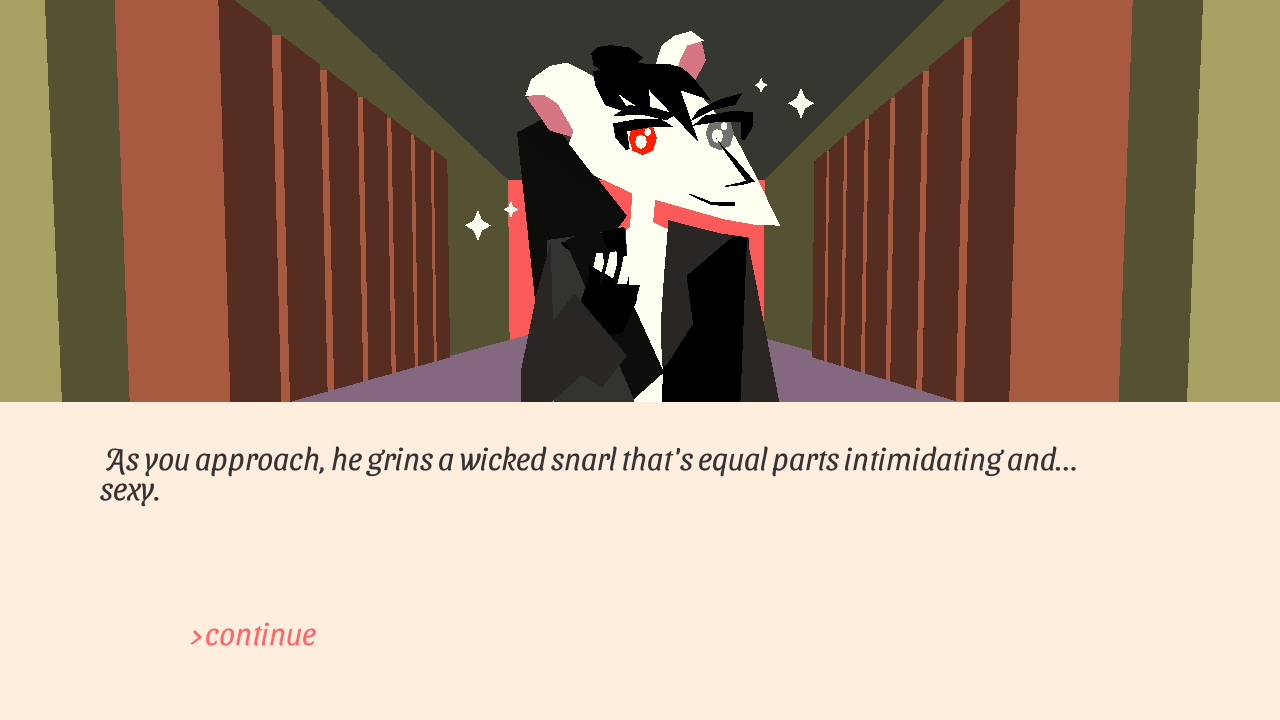
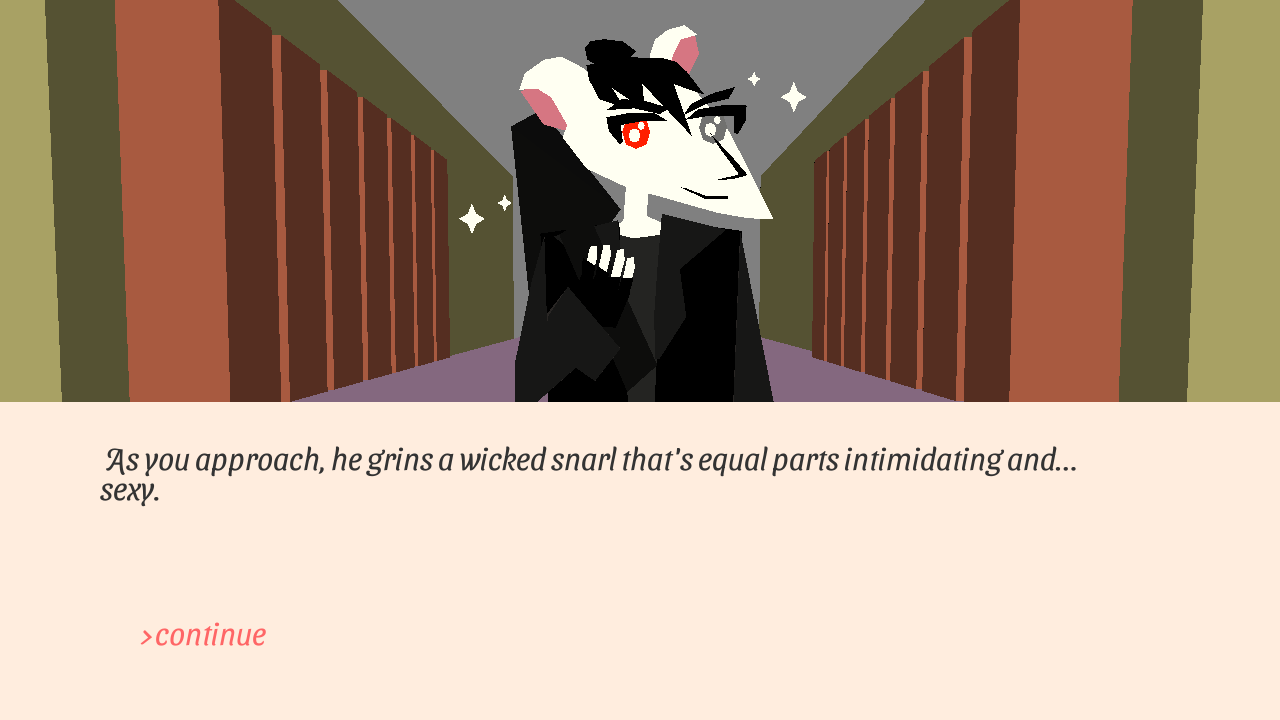
updated readme and fixed 1st person issues in dialogue

Changed region(s): [[0.25, 0.0, 0.75, 0.5806], [0.125, 0.8556, 0.25, 0.9167], [0.5938, 0.4278, 0.625, 0.55]]

diff --git a/README.md b/README.md
@@ -2,7 +2,7 @@
 
 Author: Alyssa Lee and Madeline Anthony
 
-Design: You get to romance up to two rats. also theyre ~twins
+Design: You get to romance two rats. also theyre ~canonically twins
 
 Text Drawing: The text is shaped using harfbuzz and rendered with freetype. Individual textures for each glyph are loaded the first time that glyph appears, then they are stored in a map. Most text rendering code followed [this tutorial](https://learnopengl.com/In-Practice/Text-Rendering) (thanks to hjamal for sharing!). Dialogue was created in a simple text file and stored/loaded using chunks. 
 
@@ -14,12 +14,20 @@ How To Play:
 Use the enter/return key to advance. Choose between options with left and right arrow keys. 
 
 Sources: 
+
 Script by Madeline Anthony
+
 Art by Alyssa Lee
+
 "Relaxing Ballad" by Alexander Nakarada obtained via [freepd](https://freepd.com/upbeat.php)
+
 "Abstract Anxiety" by Kevin MacLeod obtained via [freepd](https://freepd.com/electronic.php)
+
 "Finally See The Light" by Bryan Teoh obtained via [freepd](https://freepd.com/misc.php)
+
 "Coin Quarter Drop on a coin surface" by GOSFX obtained via [freesound](https://freesound.org/people/GOSFX/sounds/323403/)
+
 "Coins1" by ProjectsU012 obtained via [freesound](https://freesound.org/people/ProjectsU012/sounds/341695/)
+
 This game was built with [NEST](NEST.md).
 
